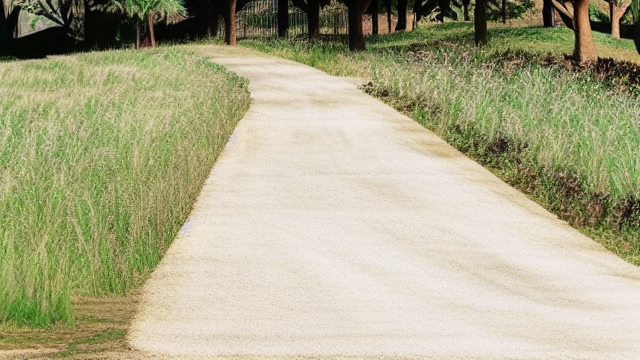
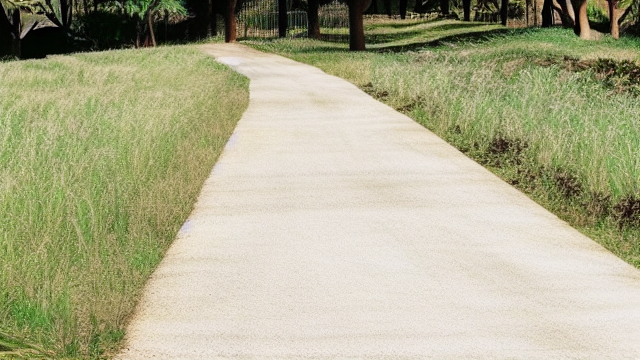
Update experiments

diff --git a/testing/testing_autodrive_large_offroad.py b/testing/testing_autodrive_large_offroad.py
@@ -48,7 +48,7 @@ for i in range(len(image_files)):
         image=image, # Input image
         ip_adapter_image=style, # Style image
         generator=generator, # Pytorch generator
-        strength=0.4, # Adherence to input image (higher values = more freedom to change, lower values = more faithful)
+        strength=0.3, # Adherence to input image (higher values = more freedom to change, lower values = more faithful)
         num_inference_steps=10, # Denoising steps (e.g., 5 effectively gets converted to 3)
         guidance_scale=5.0 # Adherence to prompt (higher values = more prompt adherence, lower values = more creativity)
     ).images[0]
